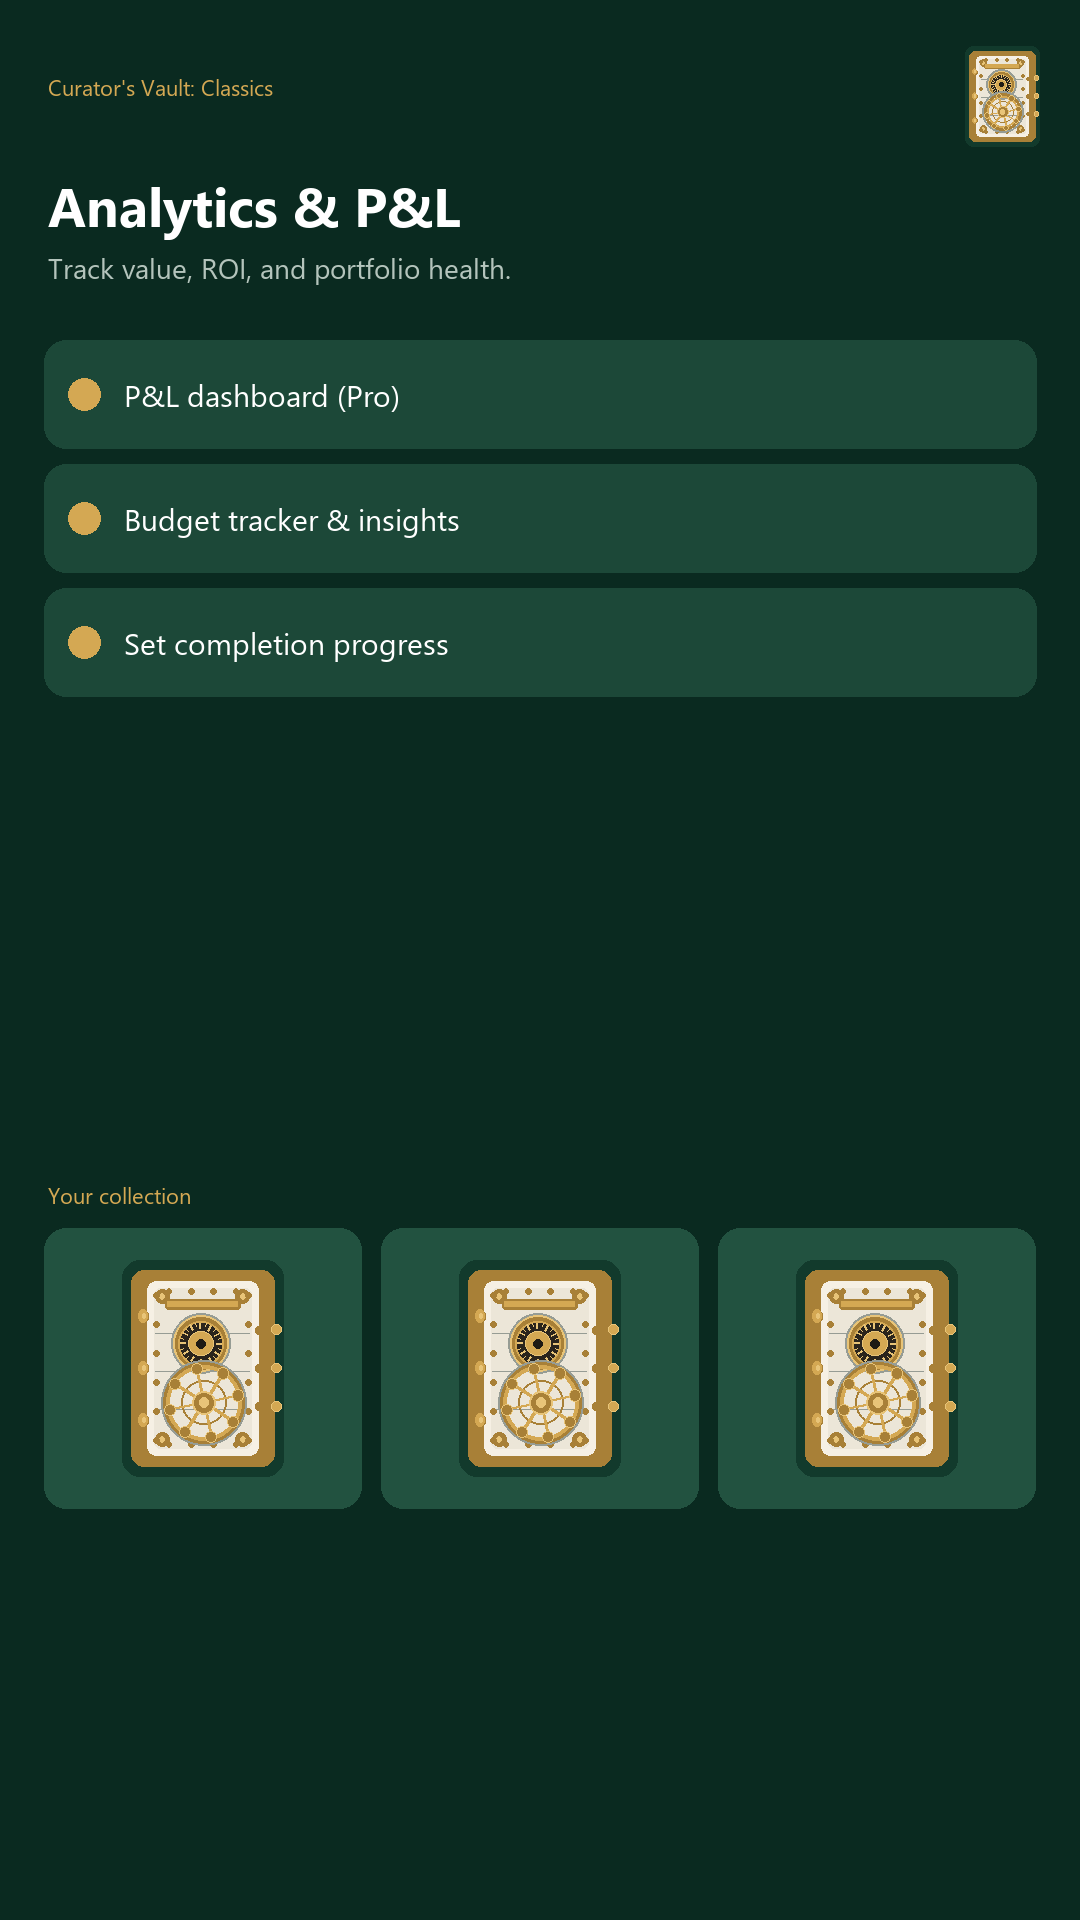
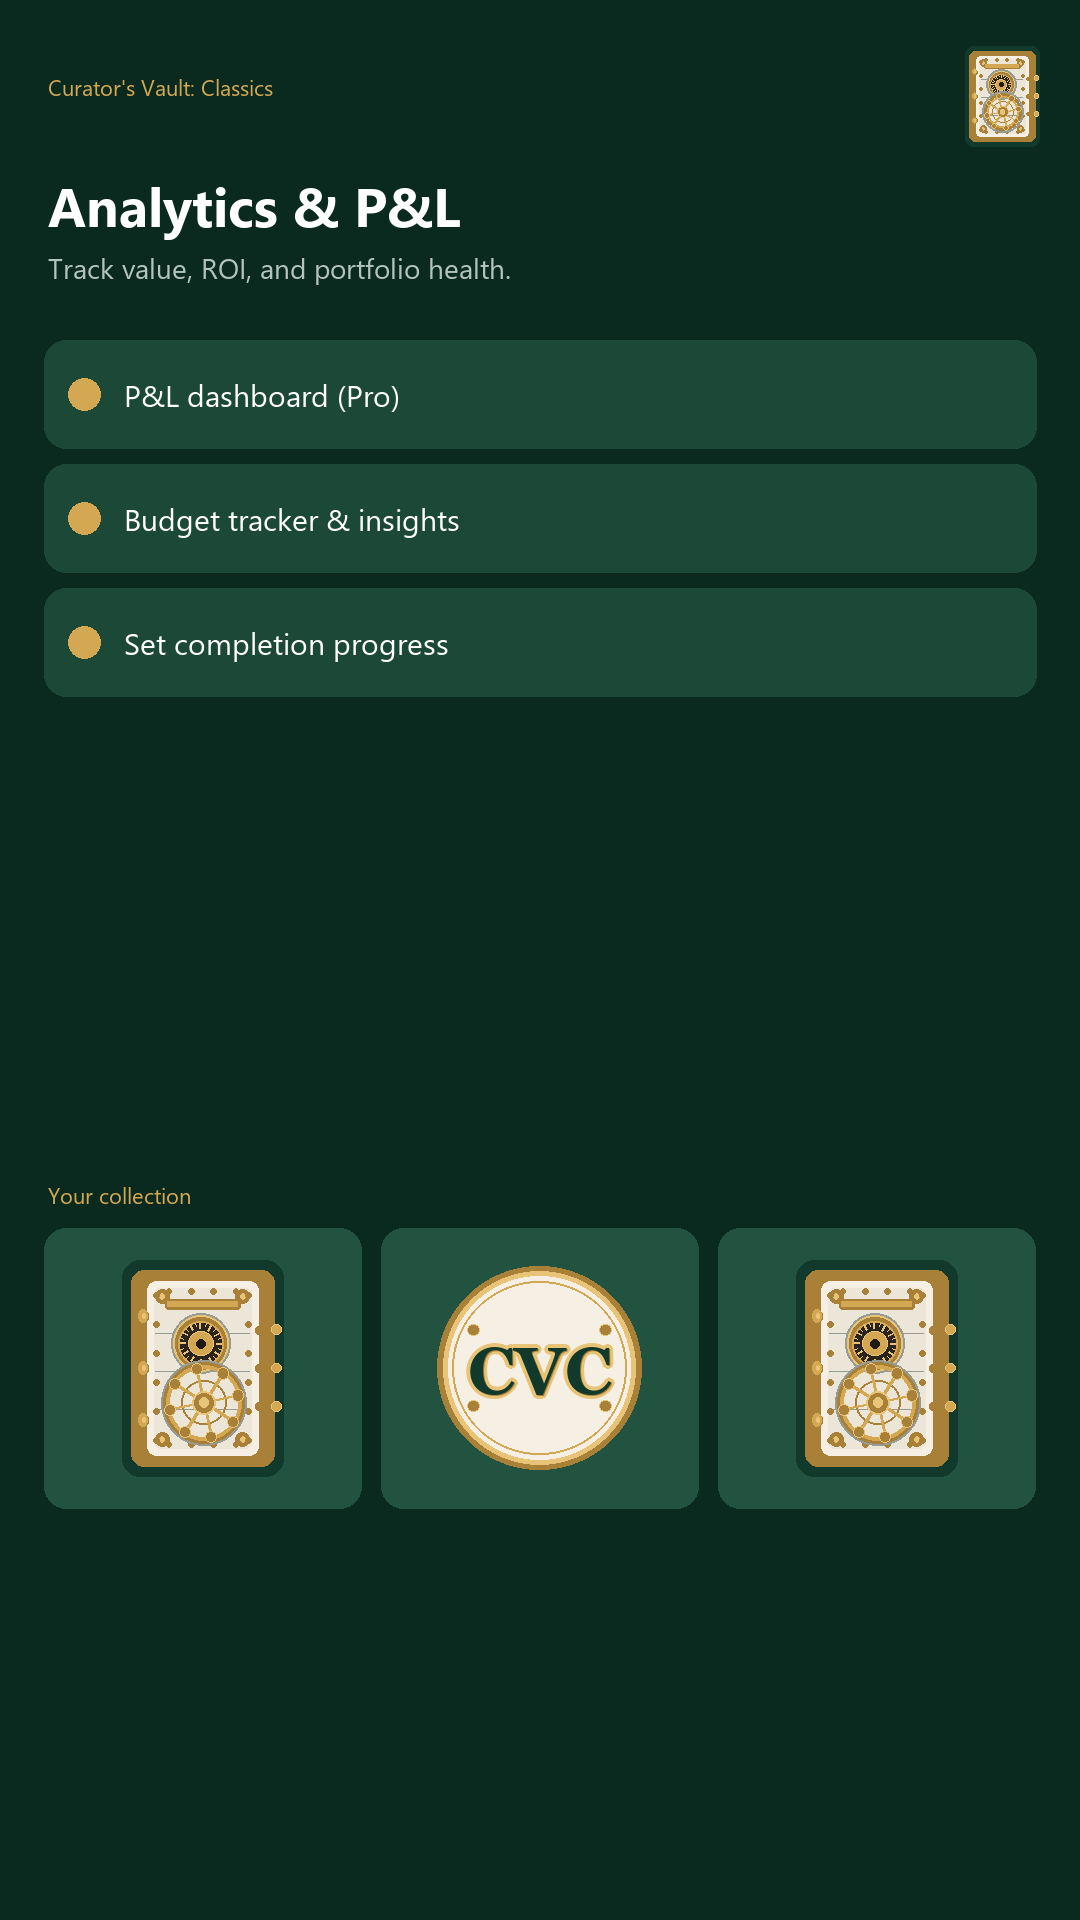
Put CVC monogram in the middle collection tile.
Hub mock was three identical vault doors; middle now shows the cream disc + CVC letters.

Changed region(s): [[0.3972, 0.6562, 0.6111, 0.7812]]

diff --git a/index.html b/index.html
@@ -3292,7 +3292,7 @@ body{font-family:'Manrope',sans-serif;background:var(--bg);color:var(--navy-dk);
           <div class="hub-cta">Open Curator's Vault <span>→</span></div>
         </div>
         <figure class="hub-card-shot" aria-hidden="true">
-          <img src="assets/screenshots/cvc/02-collection.png" alt="" width="168" height="298" loading="lazy">
+          <img src="assets/screenshots/cvc/02-collection.png?v=2" alt="" width="168" height="298" loading="lazy">
         </figure>
       </div>
 
@@ -4798,13 +4798,13 @@ body{font-family:'Manrope',sans-serif;background:var(--bg);color:var(--navy-dk);
     </div>
     <div class="pbj-hero-shots" aria-label="Curator's Vault screenshots">
       <div class="pbj-shot pbj-shot-side">
-        <img src="assets/screenshots/cvc/03-identify.png" alt="Curator's Vault AI identification for collectibles" loading="lazy" width="220" height="391">
+        <img src="assets/screenshots/cvc/03-identify.png?v=2" alt="Curator's Vault AI identification for collectibles" loading="lazy" width="220" height="391">
       </div>
       <div class="pbj-shot pbj-shot-center">
-        <img src="assets/screenshots/cvc/02-collection.png" alt="Curator's Vault collection gallery" loading="lazy" width="240" height="427">
+        <img src="assets/screenshots/cvc/02-collection.png?v=2" alt="Curator's Vault collection gallery" loading="lazy" width="240" height="427">
       </div>
       <div class="pbj-shot pbj-shot-side">
-        <img src="assets/screenshots/cvc/04-analytics.png" alt="Curator's Vault collection analytics" loading="lazy" width="220" height="391">
+        <img src="assets/screenshots/cvc/04-analytics.png?v=2" alt="Curator's Vault collection analytics" loading="lazy" width="220" height="391">
       </div>
     </div>
   </div>
@@ -4828,7 +4828,7 @@ body{font-family:'Manrope',sans-serif;background:var(--bg);color:var(--navy-dk);
       <p>AI ID for coins, cards, stamps, paper money, and lighters — series, era, and grading cues with honest confidence, not theater.</p>
     </div>
     <figure class="prod-beat-visual rv d1">
-      <img src="assets/screenshots/cvc/03-identify.png" alt="AI identification in Curator's Vault" width="280" height="498" loading="lazy">
+      <img src="assets/screenshots/cvc/03-identify.png?v=2" alt="AI identification in Curator's Vault" width="280" height="498" loading="lazy">
     </figure>
   </div>
 </section>
@@ -4841,7 +4841,7 @@ body{font-family:'Manrope',sans-serif;background:var(--bg);color:var(--navy-dk);
       <p>Coins, cards, stamps, paper money, lighters — photos, condition, provenance, and value on the device. Insurance-ready when you need the paperwork.</p>
     </div>
     <figure class="prod-beat-visual rv d1">
-      <img src="assets/screenshots/cvc/02-collection.png" alt="Collection gallery in Curator's Vault" width="280" height="498" loading="lazy">
+      <img src="assets/screenshots/cvc/02-collection.png?v=2" alt="Collection gallery in Curator's Vault" width="280" height="498" loading="lazy">
     </figure>
   </div>
 </section>
@@ -4854,7 +4854,7 @@ body{font-family:'Manrope',sans-serif;background:var(--bg);color:var(--navy-dk);
       <p>Portfolio view, cost basis, and market cues so you buy, sell, or insure from a clearer position — not a spreadsheet scavenger hunt.</p>
     </div>
     <figure class="prod-beat-visual rv d1">
-      <img src="assets/screenshots/cvc/04-analytics.png" alt="Collection analytics in Curator's Vault" width="280" height="498" loading="lazy">
+      <img src="assets/screenshots/cvc/04-analytics.png?v=2" alt="Collection analytics in Curator's Vault" width="280" height="498" loading="lazy">
     </figure>
   </div>
 </section>

diff --git a/scripts/regen-cvc-vault-mocks.py b/scripts/regen-cvc-vault-mocks.py
@@ -345,6 +345,80 @@ def draw_antique_vault(
         )
 
 
+def draw_cvc_monogram(img: Image.Image, cx: float, cy: float, scale: float) -> None:
+    """
+    App-style CVC mark: cream vault disc, brass rim + rivets,
+    forest-green CVC with gold bevel outline (matches store icon letters).
+    """
+    d = ImageDraw.Draw(img)
+    s = scale
+    r = 52 * s
+
+    # Disc + rim
+    d.ellipse(
+        (cx - r - 3 * s, cy - r - 3 * s, cx + r + 3 * s, cy + r + 3 * s),
+        fill=BRASS_DK,
+    )
+    d.ellipse(
+        (cx - r, cy - r, cx + r, cy + r),
+        fill=CREAM,
+        outline=BRASS_HI,
+        width=max(2, int(3.2 * s)),
+    )
+    d.ellipse(
+        (cx - r + 5 * s, cy - r + 5 * s, cx + r - 5 * s, cy + r - 5 * s),
+        outline=BRASS,
+        width=max(1, int(1.6 * s)),
+    )
+
+    # Rivets at 2 / 4 / 8 / 10 o'clock
+    riv_r = 3.2 * s
+    for deg in (30, 150, 210, 330):
+        ang = math.radians(deg)
+        rx = cx + math.cos(ang) * (r - 11 * s)
+        ry = cy + math.sin(ang) * (r - 11 * s)
+        d.ellipse(
+            (rx - riv_r, ry - riv_r, rx + riv_r, ry + riv_r),
+            fill=BRASS_DK,
+            outline=BRASS_HI,
+            width=max(1, int(0.9 * s)),
+        )
+
+    # CVC letters — serif, green face, gold outline
+    letter_size = max(28, int(36 * s))
+    letter_f = font_serif(letter_size)
+    text = "CVC"
+    bbox = d.textbbox((0, 0), text, font=letter_f)
+    tw, th = bbox[2] - bbox[0], bbox[3] - bbox[1]
+    tx = cx - tw / 2 - bbox[0]
+    ty = cy - th / 2 - bbox[1] + 1.5 * s
+
+    outline_w = max(2, int(2.6 * s))
+    for ox in range(-outline_w, outline_w + 1):
+        for oy in range(-outline_w, outline_w + 1):
+            if ox * ox + oy * oy > outline_w * outline_w:
+                continue
+            d.text((tx + ox, ty + oy), text, fill=BRASS_HI, font=letter_f)
+    # Slight bottom-right gold bevel
+    d.text((tx + max(1, int(0.9 * s)), ty + max(1, int(0.9 * s))), text, fill=BRASS_DK, font=letter_f)
+    d.text((tx, ty), text, fill=INK_GREEN, font=letter_f)
+
+
+def font_serif(size: int) -> ImageFont.FreeTypeFont | ImageFont.ImageFont:
+    candidates = [
+        r"C:\Windows\Fonts\georgiab.ttf",
+        r"C:\Windows\Fonts\Georgia.ttf",
+        r"C:\Windows\Fonts\timesbd.ttf",
+        r"C:\Windows\Fonts\times.ttf",
+    ]
+    for path in candidates:
+        try:
+            return ImageFont.truetype(path, size)
+        except OSError:
+            continue
+    return font(size, bold=True)
+
+
 def make_mock(
     *,
     title: str,
@@ -385,7 +459,12 @@ def make_mock(
     for i in range(3):
         cx0 = 44 + i * (card_w + gap)
         rounded(d, (cx0, y, cx0 + card_w, y + card_h), 22, CARD_SOFT)
-        draw_antique_vault(img, cx0 + card_w / 2, y + card_h / 2, 1.55)
+        mx, my = cx0 + card_w / 2, y + card_h / 2
+        if i == 1:
+            # Middle tile: CVC monogram (not a third identical vault door)
+            draw_cvc_monogram(img, mx, my, 1.85)
+        else:
+            draw_antique_vault(img, mx, my, 1.55)
 
     OUT.mkdir(parents=True, exist_ok=True)
     path = OUT / filename
